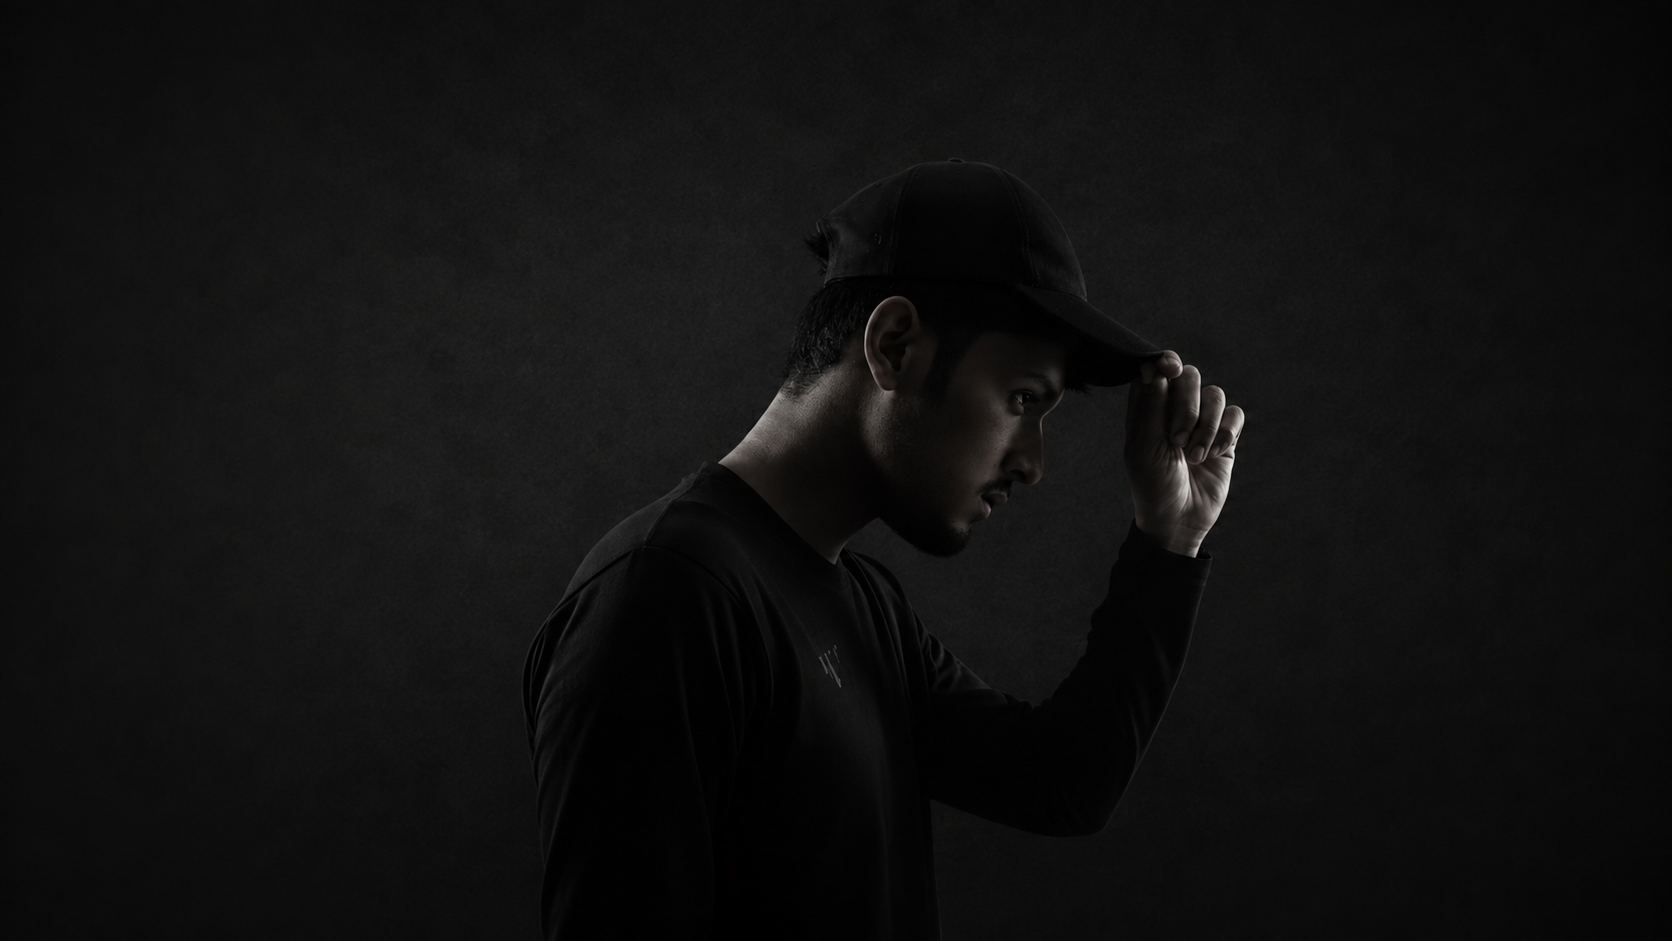
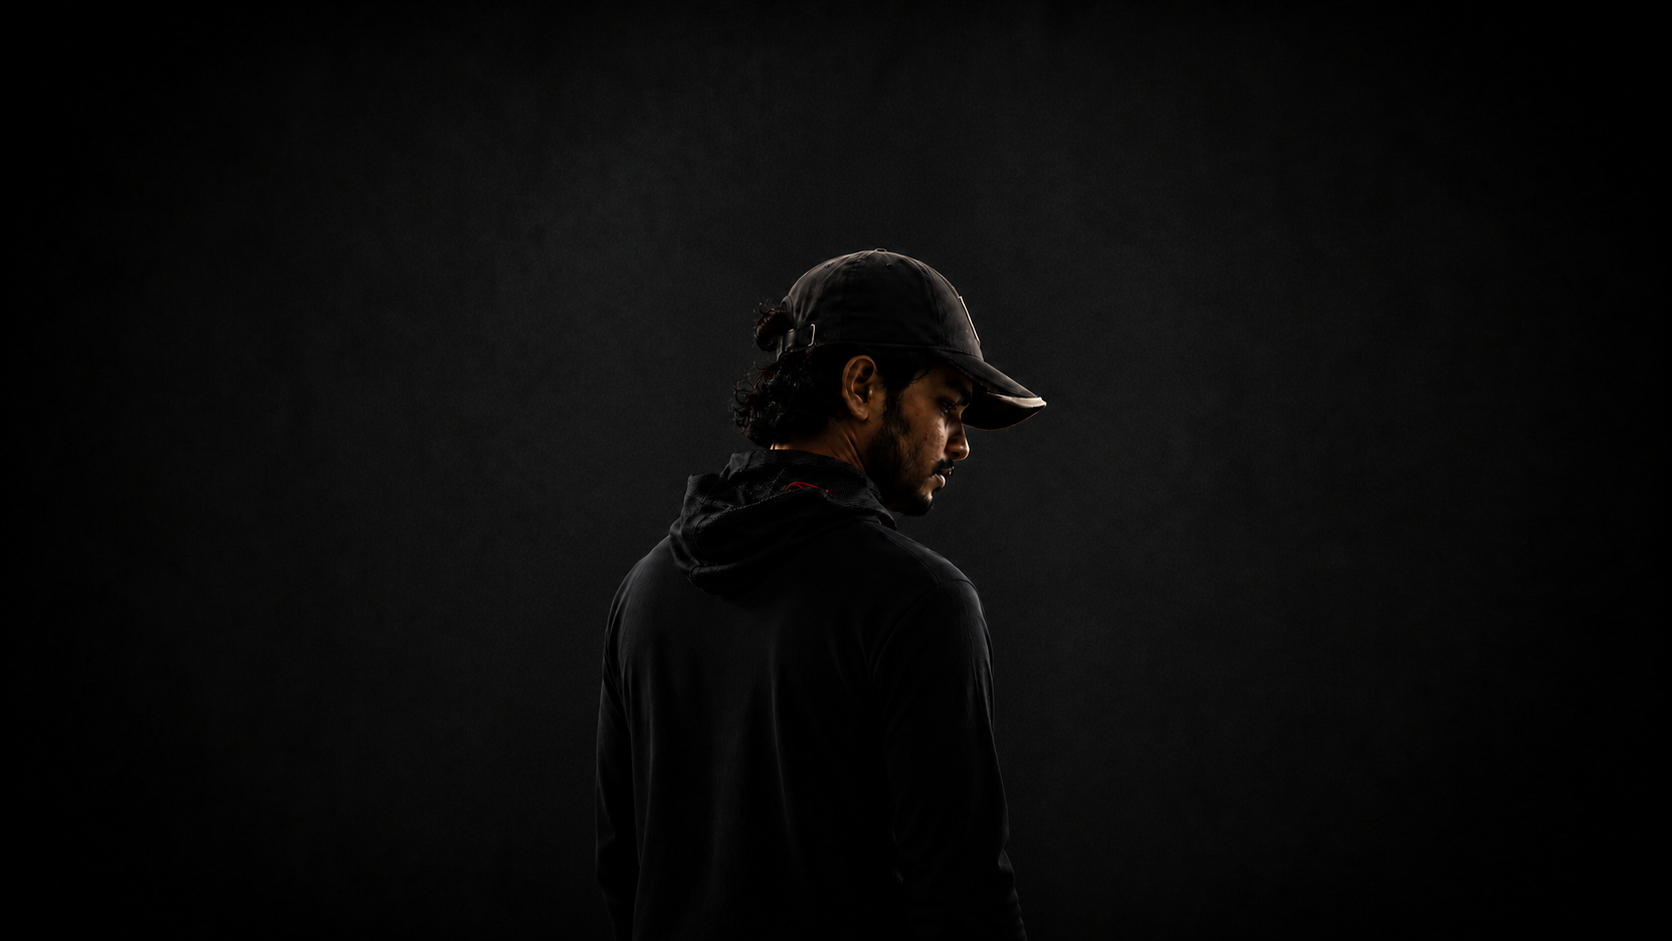
feat(assets): replace homepage hero portrait with new custom asset

diff --git a/src/components/HeroSection.tsx b/src/components/HeroSection.tsx
@@ -12,7 +12,7 @@ export default function HeroSection() {
       <div aria-hidden="true" className="absolute inset-0 z-0 overflow-hidden">
         <Image
           src="/Images/Home/Home_Image.png"
-          alt="A stylized portrait of Nikhil Dhakad, the portfolio owner."
+          alt="Creative developer portrait"
           fill
           sizes="100vw"
           className="object-cover md:scale-120 translate-y-8 md:translate-y-16"
